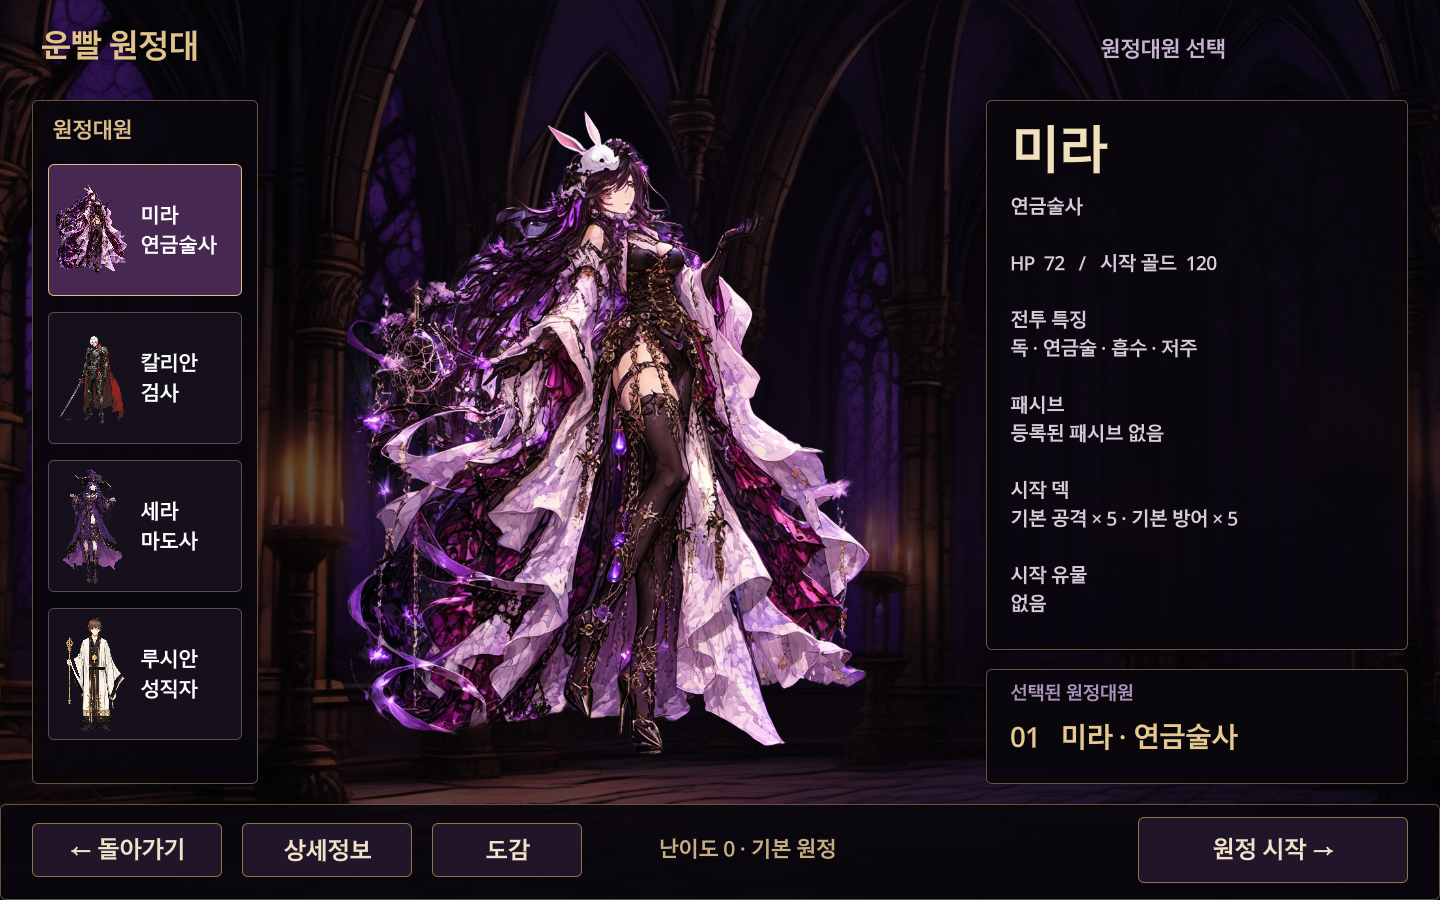
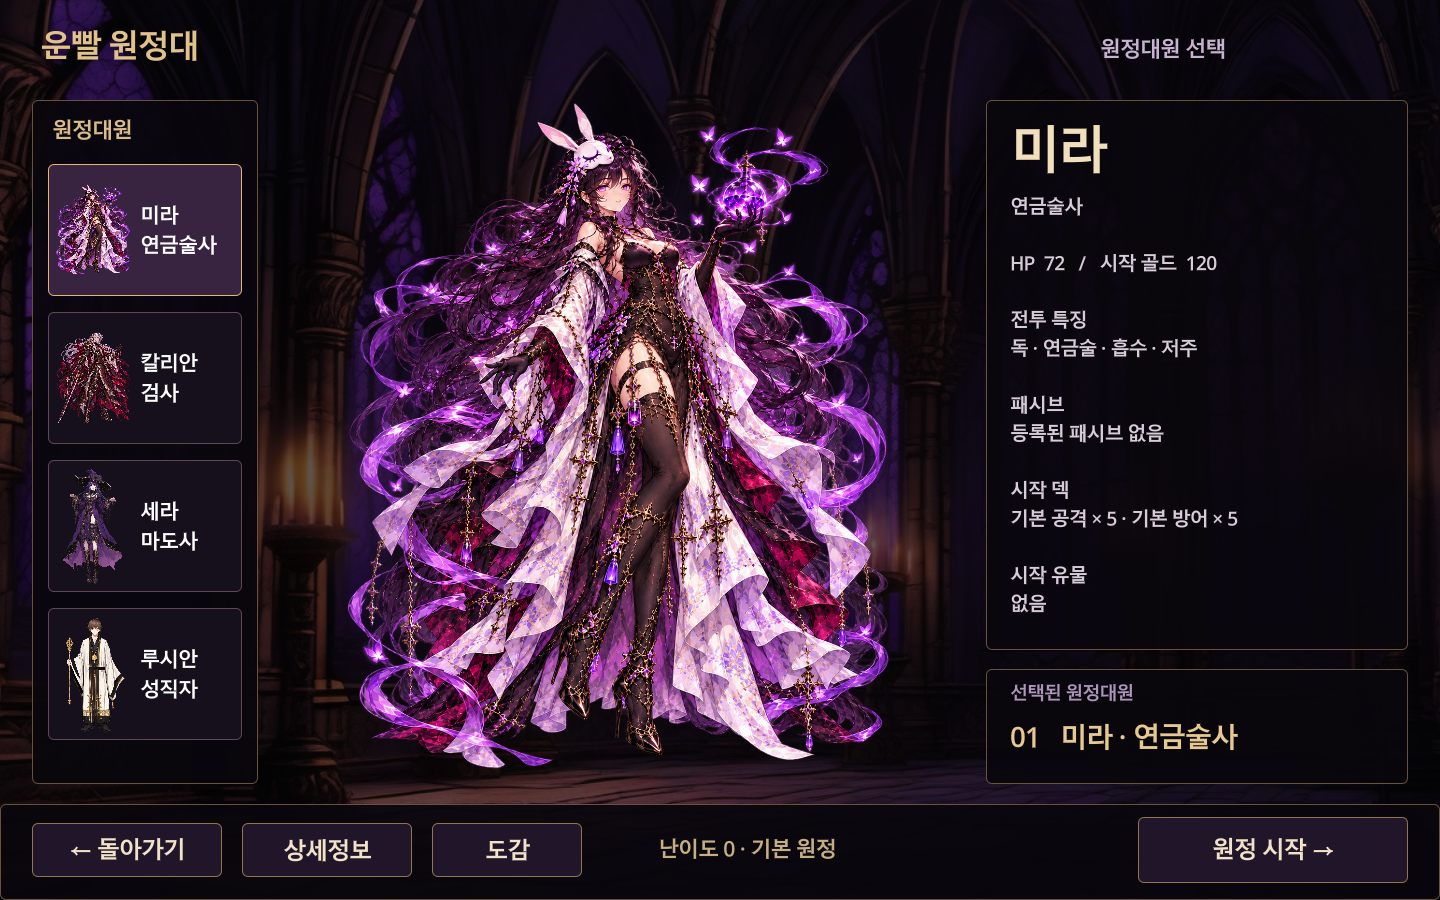
Correct Mira facial identity using original artwork reference

Changed region(s): [[0.2188, 0.1244, 0.625, 0.8711], [0.0312, 0.3733, 0.0938, 0.4667], [0.0312, 0.2178, 0.0938, 0.3111]]

diff --git a/HANDOFF.md b/HANDOFF.md
@@ -97,3 +97,7 @@
 ## 2026-10-01 내장 이미지 생성으로 전환
 사용자가 ComfyUI 원화 품질을 거부해 내장 image_gen으로 칼리안 선택 원화를 새로 제작했다. 기존 미라 full_02를 그림체 참고로 사용. 파일 kalian_character_select_builtin_v1.png를 현재 바탕화면 프로젝트와 Git 프로젝트에 함께 적용했다. 이전 원화는 보존한다. 다른 캐릭터의 내장 생성 재제작은 아직 남아 있다.
 `n실제 바탕화면 프로젝트에서 HOME_MERGE_QA characters=4 failures=0. 칼리안 투명 표시와 도감/원정 진입 확인. 스크립트 오류 없음.
+
+## 미라 얼굴 수정
+사용자가 ComfyUI 재생성 미라의 얼굴 변형을 지적했다. 원본 full_02를 얼굴 기준으로 내장 image_gen에서 다시 제작한 mira_character_select_builtin_v1.png로 선택 원화/목록을 교체. 원본 full/gallery/모션과 이전 생성물은 보존. 현재 바탕화면 프로젝트에도 동시 적용.
+Godot AI MCP로 현재 바탕화면 프로젝트 재실행 후 수정된 미라 텍스처 경로와 실제 선택 화면을 확인했다. 실행 오류 없음.
